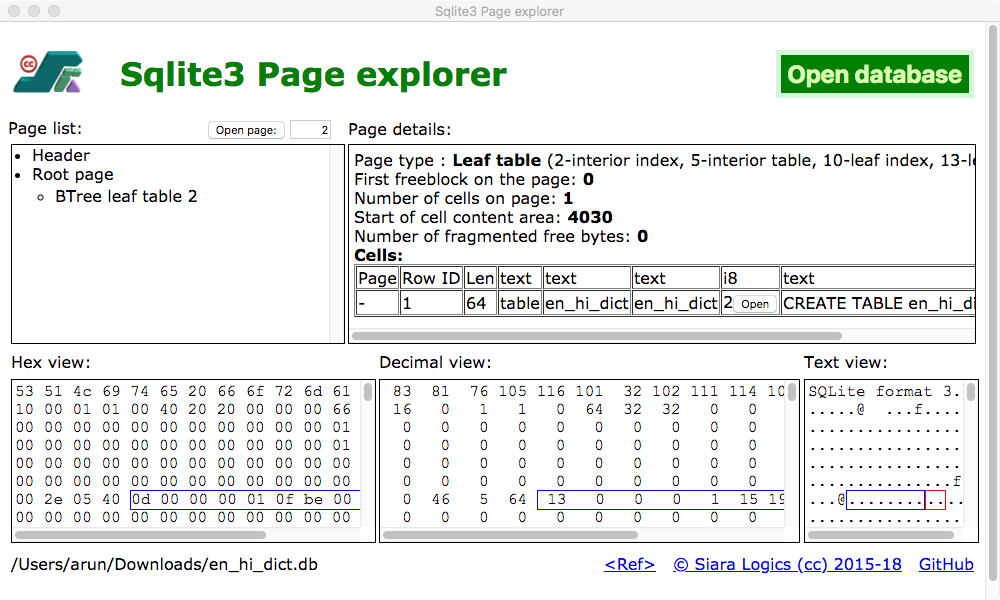
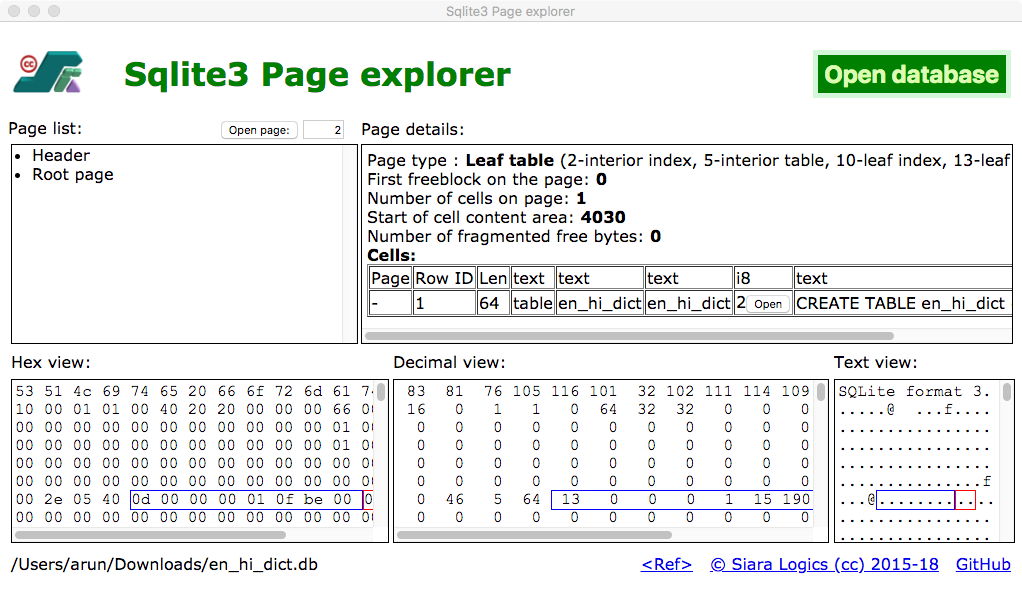
Remove body scrollbar

diff --git a/index.html b/index.html
@@ -4,8 +4,12 @@
     <meta charset="UTF-8">
     <title>Sqlite3 Page explorer</title>
     <style>
-      html, body {
+      html {
         height: 100%;
+      }
+      body {
+        height: 100%;
+        overflow: hidden;
         font-family: Verdana, Geneva, sans-serif
       }
       ul {
